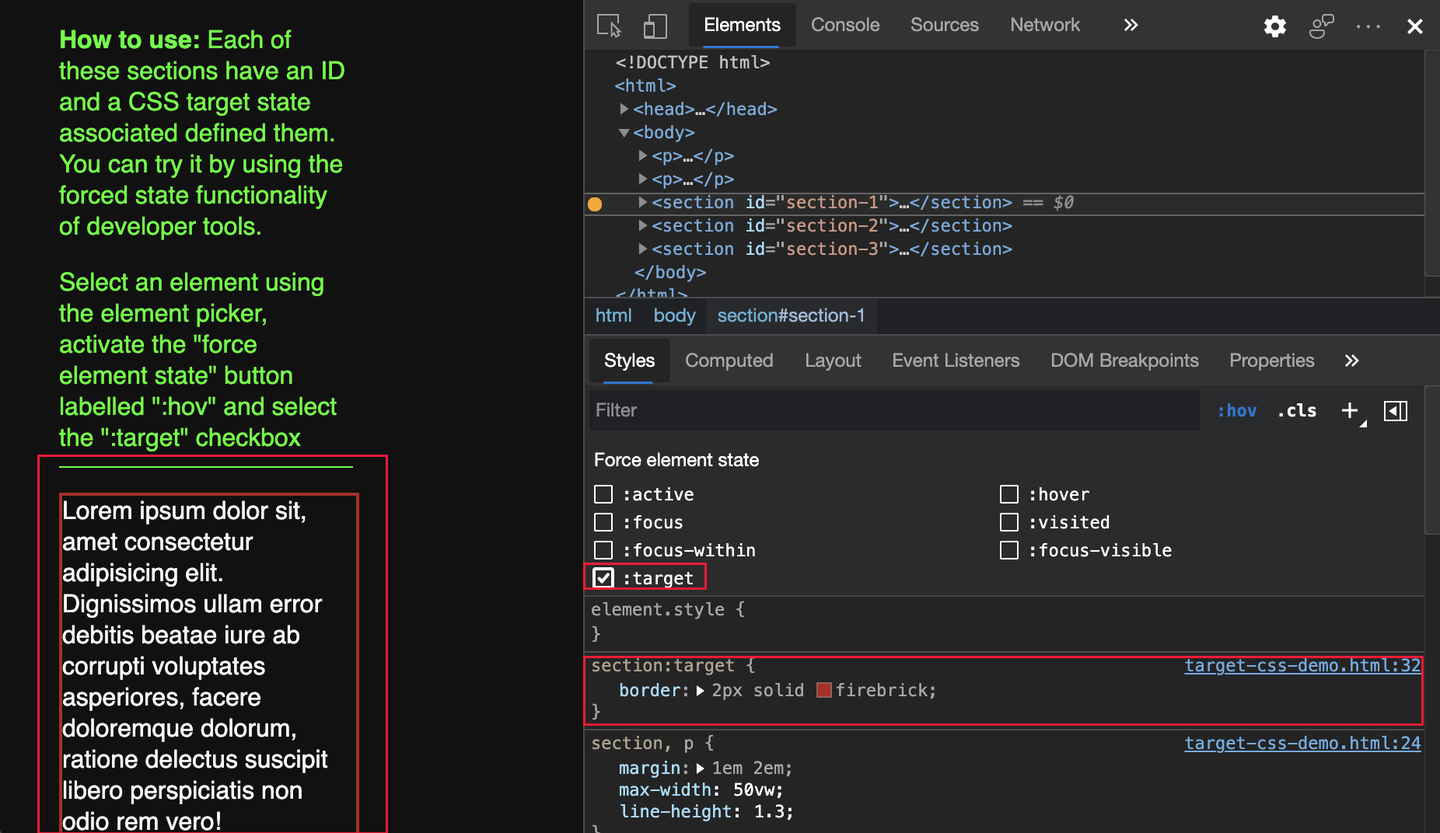
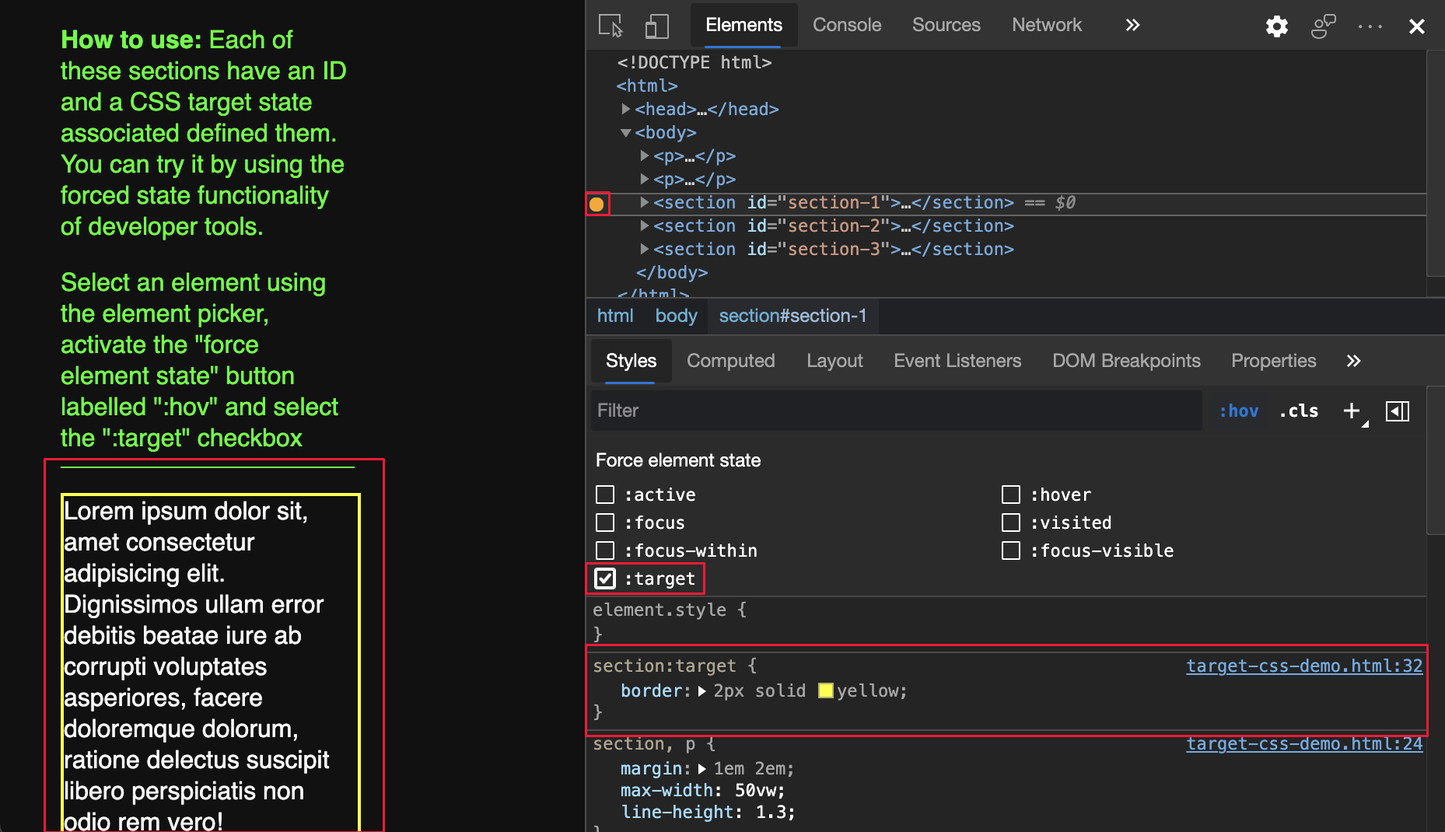
commit from WebFundamentals

diff --git a/microsoft-edge/devtools-guide-chromium/whats-new/2021/01/devtools.md b/microsoft-edge/devtools-guide-chromium/whats-new/2021/01/devtools.md
@@ -3,7 +3,7 @@ description: The What's New tool is now Welcome, Visual Font Editor in the Style
 title: What's new in DevTools (Microsoft Edge 89)
 author: MSEdgeTeam
 ms.author: msedgedevrel
-ms.date: 02/02/2021
+ms.date: 02/03/2021
 ms.topic: article
 ms.prod: microsoft-edge
 keywords: microsoft edge, web development, f12 tools, devtools
@@ -48,7 +48,7 @@ To turn on this experiment, navigate to [Settings][DevtoolsCustomizeIndexSetting
 
 ## CSS Flexbox debugging tools  
 
-Flexbox features are in active development.  To turn on the experiment for the following two features, navigate to [Settings][DevtoolsCustomizeIndexSettings] > **Experiments** and choose the checkbox next to **Enable new CSS Flexbox debugging features**.  To review the history of this feature in the Chromium open-source project, navigate to Issues [1136394][CR1136394] and [1139949][CR1139949].  
+Flexbox debugging features are in active development.  To turn on the experiment for the following two features, navigate to [Settings][DevtoolsCustomizeIndexSettings] > **Experiments** and choose the checkbox next to **Enable new CSS Flexbox debugging features**.  To review the history of this feature in the Chromium open-source project, navigate to Issues [1136394][CR1136394] and [1139949][CR1139949].  
 
 ### New Flexbox (flex) icon help identify and display flex containers  
 
@@ -57,19 +57,23 @@ Flexbox features are in active development.  To turn on the experiment for the f
 
 :::image type="icon" source="../../media/2020/06/experimental-tag-14px.msft.png":::  
 
-In the **Elements** tool, the new Flexbox (flex) icon helps you identify Flexbox containers in your code.  Choose the Flexbox (flex) icon to turn on or off the on-page overlay that outlines a Flexbox container.  You may customize the color of the overlay in the **Layout** pane, which is located next to **Styles** and **Computed**.  Flexbox debugging features are in active development.  
+In the **Elements** tool, the new Flexbox (flex) icon helps you identify Flexbox containers in your code.  Choose the Flexbox \(flex\) icon to turn on or off the [overlay effect][W3schoolsHowtoHowtoCssOverlay] that outlines a Flexbox container.  You may customize the color of the overlay in the **Layout** pane, which is located next to **Styles** and **Computed**.  
 
 :::row:::
    :::column span="":::
-      To turn on and off the on-page overlay that outlines the Flexbox container, choose the Flexbox \(`flex`\) icon.  
-      
+      To turn on and off the overlay effect that outlines the Flexbox container, choose the Flexbox \(`flex`\) icon.  
+   :::column-end:::
+   :::column span="":::
+      You may customize the color of the overlay in the **Layout** pane next to **Styles** and **Computed**.  
+   :::column-end:::
+:::row-end:::  
+:::row:::
+   :::column span="":::
       :::image type="complex" source="../../media/2021/01/elements-flex-container.msft.png" alt-text="The Flexbox (flex) icon and webpage highlighted" lightbox="../../media/2021/01/elements-flex-container.msft.png":::
          The **Flexbox** \(`flex`\) icon and webpage highlighted
       :::image-end:::  
    :::column-end:::
    :::column span="":::
-      You may customize the color of the overlay in the **Layout** pane next to **Styles** and **Computed**.  
-      
       :::image type="complex" source="../../media/2021/01/elements-layout-flex-container.msft.png" alt-text="The Flexbox overlays highlighted in the Layout pane" lightbox="../../media/2021/01/elements-layout-flex-container.msft.png":::
          The **Flexbox overlays** highlighted in the **Layout** pane  
       :::image-end:::  
@@ -88,19 +92,23 @@ When you edit CSS for your Flexbox layout, CSS autocompletes in the **Styles** p
 :::row:::
    :::column span="":::
       The autocomplete menu now displays icons that indicate the effect of alignment properties such as `align-content` and `align-items`.  
-      
+   :::column-end:::
+   :::column span="":::
+      Additionally, DevTools now displays a guiding line to help you better review the `align-items` CSS property.  The `gap` CSS property is supported as well.  In the following figure, the `gap` CSS property is set to `gap: 12px;` and the hatching pattern for each gap is displayed.  
+   :::column-end:::
+:::row-end:::  
+:::row:::
+   :::column span="":::
       :::image type="complex" source="../../media/2021/01/elements-flex-container-align.msft.png" alt-text="Autocomplete menu highlighted for CSS properties that start with align-" lightbox="../../media/2021/01/elements-flex-container-align.msft.png":::
          Autocomplete menu highlighted for CSS properties that start with `align-`  
       :::image-end:::  
    :::column-end:::
    :::column span="":::
-      Additionally, DevTools now displays a guiding line to help you better review the `align-items` CSS property.  The `gap` CSS property is supported as well.  The `gap` CSS property is set to `gap: 12px;` and the hatching pattern for each gap is displayed.  
-      
       :::image type="complex" source="../../media/2021/01/elements-flex-container-align-items-center-gap-12px.msft.png" alt-text="Flexbox gap in CSS properties and webpage highlighted" lightbox="../../media/2021/01/elements-flex-container-align-items-center-gap-12px.msft.png":::
          Flexbox `gap` in CSS properties and webpage highlighted  
       :::image-end:::  
    :::column-end:::
-:::row-end:::
+:::row-end:::  
 
 ## Add tools quickly with new More Tools button  
 
@@ -108,8 +116,6 @@ When you edit CSS for your Flexbox layout, CSS autocompletes in the **Styles** p
 <!--  Subtitle: A convenient way to open new tools in Microsoft Edge DevTools -->  
 
 :::image type="icon" source="../../media/2020/06/experimental-tag-14px.msft.png":::  
-
-<!--todo:  title from Rachel  -->  
 
 You now have a new way to open more tools in the Microsoft Edge DevTools.  After you turn on this experiment, the **More Tools** icon displays as a plus sign (`+`) to the right of the main panel.  To display a list of other tools to add to the main panel, choose the **More Tools** \(`+`\) icon.  To turn on this experiment, navigate to [Settings][DevtoolsCustomizeIndexSettings] > **Experiments**, and then choose the checkbox next to **Enable + button tab menus to open more tools**.  
 
@@ -122,7 +128,9 @@ You now have a new way to open more tools in the Microsoft Edge DevTools.  After
 <!--  Title: Assistive technologies now announce position and count of CSS suggestions  -->  
 <!--  Subtitle: CSS suggestions are now easier to navigate using screen readers -->  
 
-A user of assistive technologies may now navigate CSS suggestions in the **Styles** pane.  In Microsoft Edge version 88 and earlier, your assistive technology announced `Suggestion` as a user navigated through the list of suggestions when editing CSS in the **Styles** pane.  In Microsoft Edge version 89, a user of assistive technology now hears the position and count of the current suggestion.  Each suggestion is announced as the user navigates through the list of suggestions, such as Suggestion 3 of 5.  To learn more about writing CSS in the DevTools, navigate to [Change CSS][DevtoolsCssReferenceChangeCss].  To review the history of this feature in the Chromium open-source project, navigate to Issue [1157329][CR1157329].  
+When you edit CSS, you get a dropdown of features.  This feature was not available to users of assistive technologies, since it is announced in Microsoft Edge version 89.  A user of assistive technologies may now navigate CSS suggestions in the **Styles** pane.  In Microsoft Edge version 88 and earlier, assistive technology announced `Suggestion` as a user navigated through the list of suggestions when editing CSS in the **Styles** pane.  In Microsoft Edge version 89, a user of assistive technology now hears the position and count of the current suggestion.  Each suggestion is announced as the user navigates through the list of suggestions, such as Suggestion 3 of 5.  To learn more about writing CSS in the DevTools, navigate to [Change CSS][DevtoolsCssReferenceChangeCss].  To review the history of this feature in the Chromium open-source project, navigate to Issue [1157329][CR1157329].  
+
+<!--To view a video that displays and reads aloud several suggestions with this experiment turned on, navigate to [Voiceover announcing devtools options](https://youtu.be/9TcUpleEwwA) on YouTube.  -->  
 
 The following video link displays and reads aloud several suggestions with this experiment turned on.  
 
@@ -133,7 +141,7 @@ The following video link displays and reads aloud several suggestions with this 
 <!--  Title: Emulate new dual-screen and foldable devices  -->  
 <!--  Subtitle: Test the appearance and feel of your website or app with Surface Duo and Samsung Galaxy Fold emulators -->  
 
-This feature is now available by default in Microsoft Edge version 89.  Test the appearance of your website or app on the following devices in Microsoft Edge.  
+Test the appearance of your website or app on the following devices in Microsoft Edge.  
 
 *   [Surface Duo][MicrosoftSurfaceDevicesSurfaceDuo]  
 *   [Samsung Galaxy Fold][SamsungUsMobileGalaxyFold]  
@@ -153,7 +161,7 @@ To review the history of this feature in the Chromium open-source project, navig
 
 ## Microsoft Edge Developer Tools for Visual Studio Code version 1.1.2  
 
-The [Microsoft Edge Developer Tools for Visual Studio Code][VisualstudioMarketplaceMsEdgedevtoolsVscodeEdgeDevtools] extension version 1.1.2 for Microsoft Visual Studio Code has the following changes since the previous release.  It is regularly updated automatically.  
+The [Microsoft Edge Developer Tools for Visual Studio Code][VisualstudioMarketplaceMsEdgedevtoolsVscodeEdgeDevtools] extension version 1.1.2 for Microsoft Visual Studio Code has the following changes since the previous release.  Microsoft Visual Studio Code updates extensions automatically.  To manually update to version 1.1.2, navigate to [Update an extension manually][VisualstudioCodeDocsEditorExtensionGalleryUpdateExtensionManually].  
 
 *   Added a **Close instance** button to each item on the target list \([#248][GithubMicrosoftVscodeEdgeDevtoolsPull248]\)  
 *   Bumped [Microsoft Edge DevTools][DevtoolsMain] version from 84.0.522.63 to [85.0.564.40][DevtoolsWhatsNew85] \([#235][GithubMicrosoftVscodeEdgeDevtoolsPull235]\)  
@@ -178,7 +186,7 @@ In Microsoft Edge version 89, node screenshots are more accurate, capturing the 
 
 #### Support forcing the :target CSS state  
 
-You may now use DevTools to force the [:target][MdnDocsWebCssTarget] CSS pseudo-class.  The `:target` pseudo-class is triggered when a unique element \(the target element\) has an `id` that matches a fragment of the URL.  For example, the `http://www.example.com/index.html#section2` URL triggers the `:target` pseudo-class on an HTML element with `id="section2"`.  To try a demo, navigate to [CSS :target demo][GithubMicrosoftedgeDevtoolssamplesWhatsNew89TargetCssDemoHtml] and open DevTools.  To review the history of this feature in the Chromium open-source project, navigate to Issue [1156628][CR1156628].  
+You may now use DevTools to force the [:target][MdnDocsWebCssTarget] CSS pseudo-class.  The `:target` pseudo-class is triggered when a unique element \(the target element\) has an `id` that matches a fragment of the URL.  For example, the `http://www.example.com/index.html#section1` URL triggers the `:target` pseudo-class on an HTML element with `id="section1"`.  To try a demo with section 1 highlighted, navigate to [CSS :target demo][GithubMicrosoftedgeDevtoolssamplesWhatsNew89TargetCssDemoHtmlSection1].  To review the history of this feature in the Chromium open-source project, navigate to Issue [1156628][CR1156628].  
 
 :::row:::
    :::column span="":::
@@ -211,7 +219,7 @@ The **Styles** pane now displays color pickers for custom CSS properties.  To cy
 
 #### Copy CSS classes and properties  
 
-You may now copy CSS properties quicker with a few new shortcuts.  In the **Elements** tool, choose an element.  To copy the value, in the **Styles** pane, hover on a CSS class or a CSS property, open a contextual menu \(right-click\), and choose the copy option.  
+You may now copy CSS properties quicker with a few new options in the contextual menu.  In the **Elements** tool, choose an element.  To copy the value, in the **Styles** pane, hover on a CSS class or a CSS property, open a contextual menu \(right-click\), and choose the copy option.  
 
 :::row:::
    :::column span="":::
@@ -222,10 +230,6 @@ You may now copy CSS properties quicker with a few new shortcuts.  In the **Elem
       | **Copy selector** | Copy the current selector name. |  
       | **Copy rule** | Copy the rule of the current selector. |  
       | **Copy all declarations** | Copy all declarations under the current rule, including non-valid and prefixed properties. |  
-          
-      :::image type="complex" source="../../media/2021/01/copy-css-class.msft.png" alt-text="Copy options for a CSS class in the contextual menu" lightbox="../../media/2021/01/copy-css-class.msft.png":::
-         Copy options for a CSS class in the contextual menu  
-      :::image-end:::  
    :::column-end:::
    :::column span="":::
       Copy options for a CSS property.  
@@ -235,7 +239,15 @@ You may now copy CSS properties quicker with a few new shortcuts.  In the **Elem
       | **Copy declaration** | Copy the declaration of the current line. |  
       | **Copy property** | Copy the property of the current line. |  
       | **Copy value** | Copy the value of the current line. |  
-          
+   :::column-end:::
+:::row-end:::  
+:::row:::
+   :::column span="":::
+      :::image type="complex" source="../../media/2021/01/copy-css-class.msft.png" alt-text="Copy options for a CSS class in the contextual menu" lightbox="../../media/2021/01/copy-css-class.msft.png":::
+         Copy options for a CSS class in the contextual menu  
+      :::image-end:::  
+   :::column-end:::
+   :::column span="":::
       :::image type="complex" source="../../media/2021/01/copy-css-property-cropped.msft.png" alt-text="Copy options for a CSS property in the contextual menu" lightbox="../../media/2021/01/copy-css-property.msft.png":::
          Copy options for a CSS property in the contextual menu  
       :::image-end:::  
@@ -256,7 +268,7 @@ You may now opt to display the URL-decoded cookies value in the **Cookies** pane
 
 #### Filter and clear visible cookies  
 
-In Microsoft Edge version 88 or earlier, your only option was **Clear all cookies** button.  In Microsoft Edge version 89, you may now choose **Clear filtered cookies** to delete only the filtered cookies.  To filter cookies, navigate to **Application** > **Cookies**, and type in the **Filter** textbox.  To delete the displayed cookies, choose the **Clear filtered cookies** button.  To display all other cookies, clear the filter text.  To review the history of this feature in the Chromium open-source project, navigate to Issue [978059][CR978059].  
+In Microsoft Edge version 88 or earlier, the **Application** tool only provided a way to clear all cookies with the **Clear all cookies** button.  In Microsoft Edge version 89, you may now choose **Clear filtered cookies** to delete only the filtered cookies.  To filter cookies, navigate to **Application** > **Cookies**, and type in the **Filter** textbox.  To delete the displayed cookies, choose the **Clear filtered cookies** button.  To display all other cookies, clear the filter text.  To review the history of this feature in the Chromium open-source project, navigate to Issue [978059][CR978059].  
 
 :::image type="complex" source="../../media/2021/01/application-cookies-clear-filtered-cookies.msft.png" alt-text="Clear only visible cookies" lightbox="../../media/2021/01/application-cookies-clear-filtered-cookies.msft.png":::
    Clear only visible cookies  
@@ -270,13 +282,13 @@ To clear website data and all cookies, navigate to **Application** > **Storage**
 
 To review the history of this feature in the Chromium open-source project, navigate to Issue [1012337][CR1012337].  
 
-    :::image type="complex" source="../../media/2021/01/application-storage-clear-site-data-including-third-party-cookies.msft.png" alt-text="Option to clear third-party cookies" lightbox="../../media/2021/01/application-storage-clear-site-data-including-third-party-cookies.msft.png":::
-       Option to clear third-party cookies  
-    :::image-end:::  
+:::image type="complex" source="../../media/2021/01/application-storage-clear-site-data-including-third-party-cookies.msft.png" alt-text="Option to clear third-party cookies" lightbox="../../media/2021/01/application-storage-clear-site-data-including-third-party-cookies.msft.png":::
+   Option to clear third-party cookies  
+:::image-end:::  
 
 ### Network tool updates  
 
-#### Persist record network log setting  
+#### Persist Record network log setting  
 
 In Microsoft Edge version 88 or earlier, DevTools reset the **Record network log** setting when a webpage refreshes.  In Microsoft Edge version 89, DevTools now persist the **Record network log** setting.  To review the history of this feature in the Chromium open-source project, navigate to Issue [1122580][CR1122580].  
 
@@ -296,19 +308,23 @@ The network emulation option **Online** is now renamed to **No Throttling**.  To
 
 #### Copy object in the Console and Sources tool  
 
-You may now copy object values in the **Console** and **Sources** tools.  The ability to copy object values is useful when working with large objects, such as a long array.  To review the history of this feature in the Chromium open-source project, navigate to Issues [1148353][CR1148353] and [1149859][CR1149859].  
+You may now copy object values in the **Console** and **Sources** tools.  The ability to copy object values is useful when working with large objects.  To review the history of this feature in the Chromium open-source project, navigate to Issues [1148353][CR1148353] and [1149859][CR1149859].  
 
 :::row:::
    :::column span="":::
       In the **Console** tool, hover on an object, open the contextual menu \(right-click\), and then choose **Copy object**.  
-      
+   :::column-end:::
+   :::column span="":::
+      In the **Sources** tool, on a breakpoint, hover on an object, in the **Object** popup window, highlight an object, open the contextual menu \(right-click\), and then choose **Copy object**.  
+   :::column-end:::
+:::row-end:::  
+:::row:::
+   :::column span="":::
       :::image type="complex" source="../../media/2021/01/console-copy-object.msft.png" alt-text="Copy object in the Console" lightbox="../../media/2021/01/console-copy-object.msft.png":::
          Copy object in the **Console**  
       :::image-end:::  
    :::column-end:::
    :::column span="":::
-      In the **Sources** tool, on a breakpoint, hover on an object, in the **Object** popup window, highlight an object, open the contextual menu \(right-click\), and then choose **Copy object**.  
-      
       :::image type="complex" source="../../media/2021/01/sources-breakpoint-object-copy-object.msft.png" alt-text="Copy object in Sources" lightbox="../../media/2021/01/sources-breakpoint-object-copy-object.msft.png":::
          Copy object in **Sources**  
       :::image-end:::  
@@ -321,15 +337,19 @@ You may now copy a file name using the contextual menu.  To review the history o
 
 :::row:::
    :::column span="":::
-      In the **Sources** tool, hover on a file name, open the contextual menu \(right-click\), and then choose **Copy a file name**.  
-      
+      In the **Sources** tool, hover on a file name, open the contextual menu \(right-click\), and then choose **Copy file name**.  
+   :::column-end:::
+   :::column span="":::
+      In the **Elements** tool > **Styles** pane, hover on a file name, open the contextual menu \(right-click\), and then choose **Copy file name**.  
+   :::column-end:::
+:::row-end:::  
+:::row:::
+   :::column span="":::
       :::image type="complex" source="../../media/2021/01/sources-copy-file-name.msft.png" alt-text="Copy file name in Sources" lightbox="../../media/2021/01/sources-copy-file-name.msft.png":::
          Copy file name in **Sources**  
       :::image-end:::  
    :::column-end:::
    :::column span="":::
-      In the **Elements** tool > **Styles** pane, hover on a file name, open the contextual menu \(right-click\), and then choose **Copy a file name**.  
-      
       :::image type="complex" source="../../media/2021/01/elements-styles-copy-file-name.msft.png" alt-text="Copy file name in Styles pane" lightbox="../../media/2021/01/elements-styles-copy-file-name.msft.png":::
          Copy file name in **Styles** pane  
       :::image-end:::  
@@ -340,7 +360,7 @@ You may now copy a file name using the contextual menu.  To review the history o
 
 #### Service Workers information in Frame details  
 
-DevTools now lists a dedicated service worker under the parent frame that creates it.  To display the service worker details, navigate to **Application** > **Frames** > **Service Workers** and then choose a service worker.  To review the history of this feature in the Chromium open-source project, navigate to Issue [1122507][CR1122507].  
+DevTools now lists a dedicated service worker under the parent frame.  In the following figure, service worker details are displayed.  To display the service worker details, navigate to **Application** > **Frames** > `top` > **Service Workers** and then choose a service worker.  To review the history of this feature in the Chromium open-source project, navigate to Issue [1122507][CR1122507].  
 
 :::image type="complex" source="../../media/2021/01/application-frames-service-workers-details.msft.png" alt-text="Service Workers information in the Frames details" lightbox="../../media/2021/01/application-frames-service-workers-details.msft.png":::
    **Service Workers** information in the **Frames** details  
@@ -366,11 +386,11 @@ When you [analyze load performance in the Performance tool][DevtoolsEvaluatePerf
 
 :::image type="icon" source="../../media/2020/06/experimental-tag-14px.msft.png":::  
 
-The [Advanced Perceptual Contrast Algorithm (APCA)][GithubW3cSilverGuidelinesMethodsMethodFontCharacteristicContrastHtml] replaces the [AA][W3cWaiWcag21QuickrefContrastMinimum]/[AAA][W3cWaiWcag21QuickrefContrastEnhanced] guidelines contrast ratio in the [Color Picker][DevtoolsAccessibilityReferenceViewContrastRatioTextElementColorPicker].  [APCA][GithubW3cSilverGuidelinesMethodsMethodFontCharacteristicContrastHtml] is a new way to compute contrast based on modern research on color perception.  Compared to [AA][W3cWaiWcag21QuickrefContrastMinimum]/[AAA][W3cWaiWcag21QuickrefContrastEnhanced] guidelines, [APCA][GithubW3cSilverGuidelinesMethodsMethodFontCharacteristicContrastHtml] is more context-dependent.  The contrast is calculated based on the following spatial properties of the text, color, and context.  
+The [Advanced Perceptual Contrast Algorithm (APCA)][GithubW3cSilverGuidelinesMethodsMethodFontCharacteristicContrastHtml] replaces the [AA][W3cWaiWcag21QuickrefContrastMinimum]/[AAA][W3cWaiWcag21QuickrefContrastEnhanced] guidelines contrast ratio in the [Color Picker][DevtoolsAccessibilityReferenceViewContrastRatioTextElementColorPicker].  APCA is a new way to compute contrast.  It is based on modern research on color perception.  Compared to AA/AAA guidelines, APCA is more context-dependent.  The contrast is calculated based on the following spatial properties of the text, color, and context.  
 
-*   Spatial properties of text include font weight and size.  
-*   Spatial properties of color include perceived contrast between text and background.  
-*   Spatial properties of context include ambient light, surroundings, and intended purpose.  
+*   Spatial properties of text that include font weight and size.  
+*   Spatial properties of color that include perceived contrast between text and background.  
+*   Spatial properties of context that include ambient light, surroundings, and intended purpose.  
     
 To turn on this experiment, navigate to [Settings][DevtoolsCustomizeIndexSettings] > **Experiments**  and choose the checkbox next to **Enable new Advanced Perceptual Contrast Algorithm (APCA) replacing previous contrast ratio and AA/AAA guidelines**.  To review the history of this feature in the Chromium open-source project, navigate to Issue [1121900][CR1121900].  
 
@@ -404,7 +424,7 @@ If you are on Windows, Linux, or macOS, consider using the [Microsoft Edge previ
 [DualScreenWebCssMediaSpanning]: /dual-screen/web/css-media-spanning "CSS media screen-spanning feature for dual-screen detection | Microsoft Docs"  
 [DualScreenWebJavascriptGetwindowsegments]: /dual-screen/web/javascript-getwindowsegments "The getWindowSegments JavaScript API for dual-screen devices | Microsoft Docs"  
 
-[GithubMicrosoftedgeDevtoolssamplesWhatsNew89TargetCssDemoHtml]: https://microsoftedge.github.io/DevToolsSamples/whats-new/89/target-css-demo.html "CSS :target demo for What's New in DevTools (Microsoft Edge 89) | GitHub"  
+[GithubMicrosoftedgeDevtoolssamplesWhatsNew89TargetCssDemoHtmlSection1]: https://microsoftedge.github.io/DevToolsSamples/whats-new/89/target-css-demo.html#section-1 "Section 1 - CSS :target demo for What's New in DevTools (Microsoft Edge 89) | GitHub"  
 [GithubMicrosoftVscodeEdgeDevtools]: https://github.com/microsoft/vscode-edge-devtools "microsoft/vscode-edge-devtools | GitHub"  
 [GithubMicrosoftVscodeEdgeDevtoolsPull229]: https://github.com/microsoft/vscode-edge-devtools/pull/229 "Pull 229: Implementing dropdown in settings to change themes | GitHub"  
 [GithubMicrosoftVscodeEdgeDevtoolsPull233]: https://github.com/microsoft/vscode-edge-devtools/pull/233 "Pull 233: Including Debugger for Microsoft Edge as a dependency | GitHub"  
@@ -416,6 +436,8 @@ If you are on Windows, Linux, or macOS, consider using the [Microsoft Edge previ
 [MicrosoftSurfaceDevicesSurfaceDuo]: https://www.microsoft.com/surface/devices/surface-duo "New Surface Duo | Microsoft"  
 
 [MicrosoftEdgePreviewChannels]: https://www.microsoftedgeinsider.com/download "Microsoft Edge Preview Channels"  
+
+[VisualstudioCodeDocsEditorExtensionGalleryUpdateExtensionManually]: https://code.visualstudio.com/docs/editor/extension-gallery#_update-an-extension-manually "Update an extension manually - Extension Marketplace | Visual Studio Code"  
 
 [VisualstudioMarketplaceMsEdgedevtoolsVscodeEdgeDevtools]: https://marketplace.visualstudio.com/items?itemName=ms-edgedevtools.vscode-edge-devtools "Microsoft Edge Tools for Visual Studio Code | Visual Studio Marketplace"  
 [VisualstudioMarketplaceMsjsdiagDebuggerMicrosoftEdge]: https://marketplace.visualstudio.com/items?itemName=msjsdiag.debugger-for-edge "Debugger for Microsoft Edge | Visual Studio Marketplace"  
@@ -457,6 +479,8 @@ If you are on Windows, Linux, or macOS, consider using the [Microsoft Edge previ
 [MdnDocsWebCssTarget]: https://developer.mozilla.org/docs/web/css/:target ":target | MDN"  
 
 [SamsungUsMobileGalaxyFold]: https://www.samsung.com/us/mobile/galaxy-fold "Galaxy Fold | Samsung US"  
+
+[W3schoolsHowtoHowtoCssOverlay]: https://www.w3schools.com/howto/howto_css_overlay.asp "How To Create an Overlay Effect | W3C"  
 
 [W3cWaiWcag21QuickrefContrastEnhanced]: https://www.w3.org/WAI/WCAG21/quickref#contrast-enhanced "Contrast (Enhanced) - How to Meet WCAG (Quick Reference) | W3C"  
 [W3cWaiWcag21QuickrefContrastMinimum]: https://www.w3.org/WAI/WCAG21/quickref#contrast-minimum "Contrast (Minimum) - How to Meet WCAG (Quick Reference) | W3C"  
